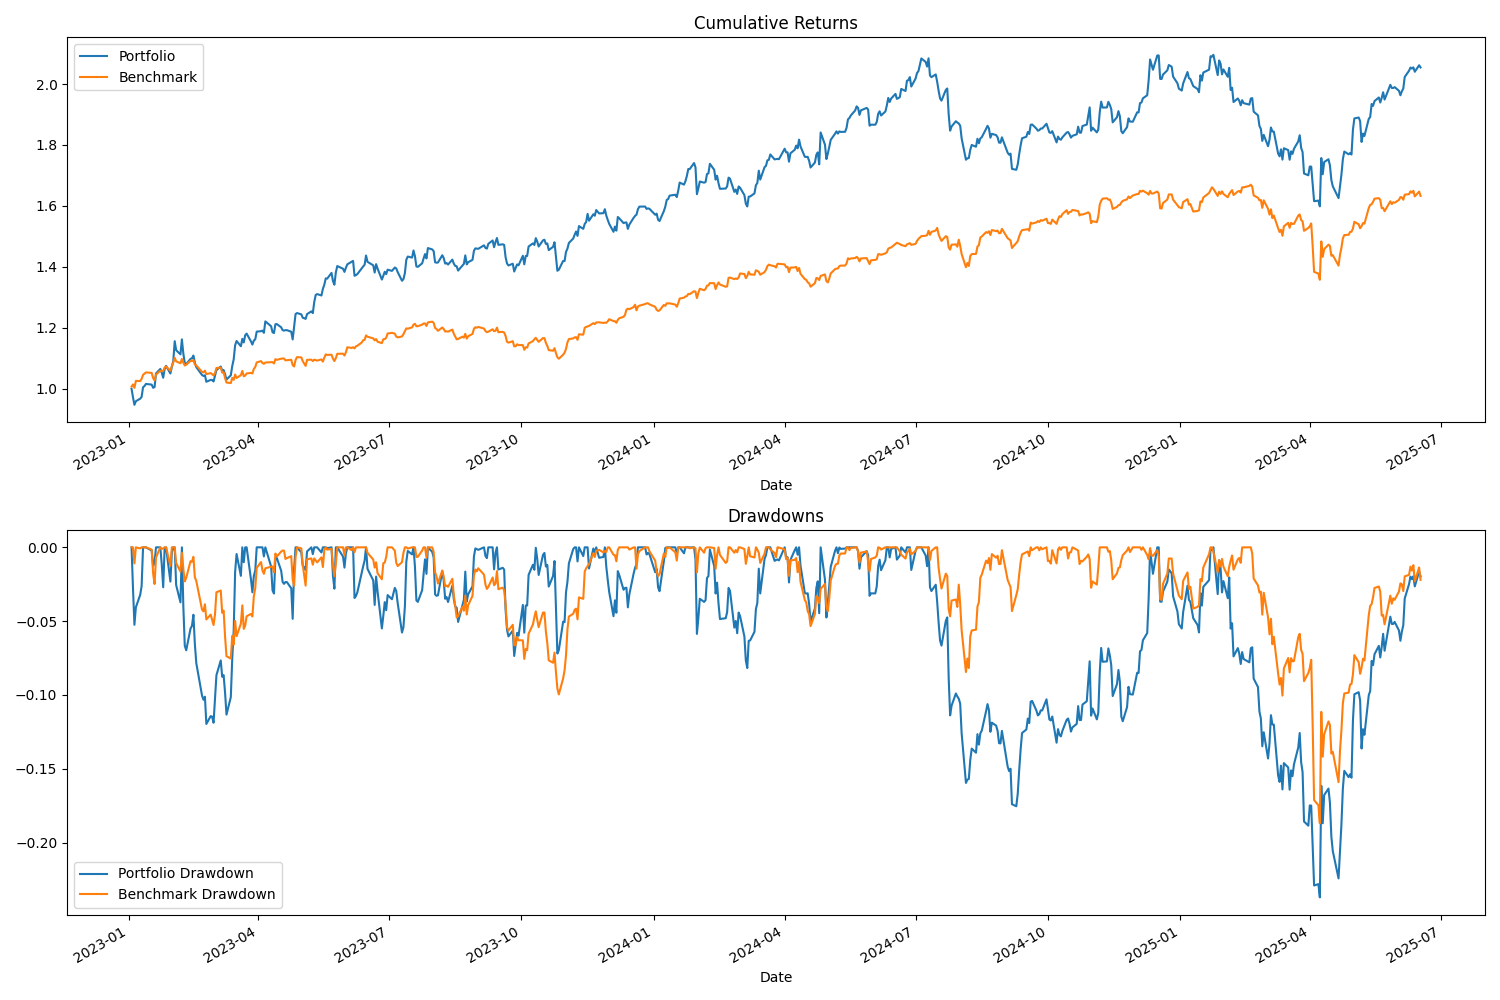
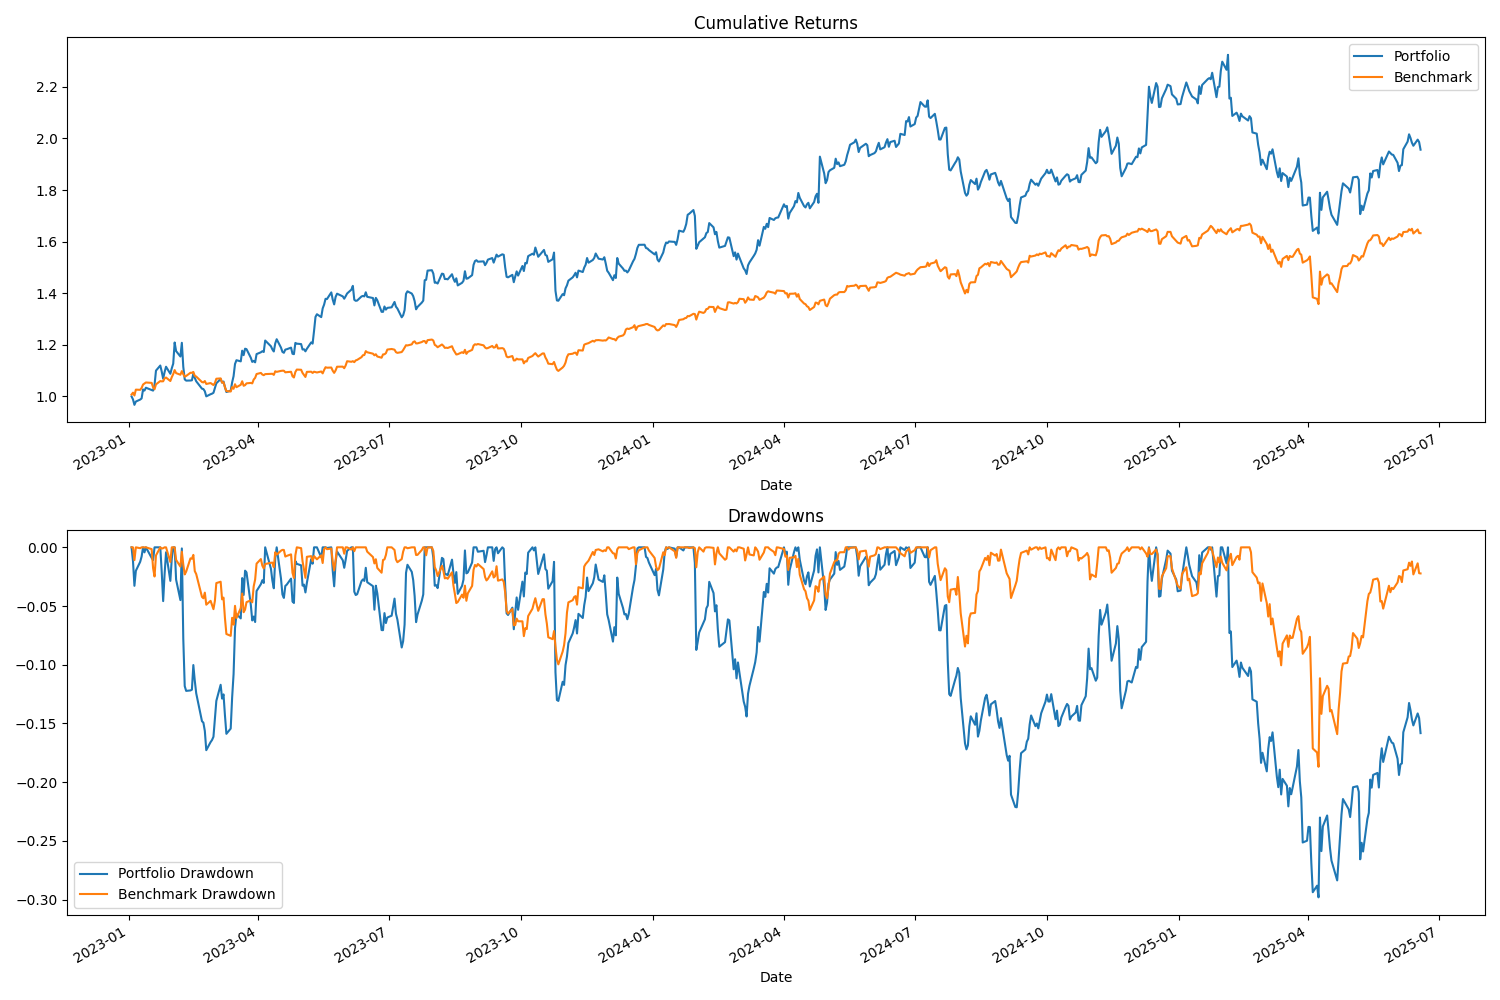
Working changes - Dinesh

diff --git a/src/main.py b/src/main.py
@@ -27,6 +27,11 @@ from src.utils.ollama import ensure_ollama_and_model
 from src.utils.progress import progress
 from src.utils.visualize import save_graph_as_png
 
+## Net New
+from src.agents.factor_exposure_agent import factor_exposure_agent
+from src.utils.display import render_factor_exposure_table
+## Net New
+
 # Load environment variables from .env file
 load_dotenv(override=True)
 
@@ -110,7 +115,7 @@ def start(state: AgentState):
     return state
 
 
-def create_workflow(selected_analysts=None):
+def create_workflow_orig(selected_analysts=None):
     """Create the workflow with selected analysts."""
     workflow = StateGraph(AgentState)
     workflow.add_node("start_node", start)
@@ -144,9 +149,64 @@ def create_workflow(selected_analysts=None):
     workflow.add_edge("risk_management_agent", "portfolio_manager")
     workflow.add_edge("portfolio_manager", "backtester_agent")
     workflow.add_edge("backtester_agent", END)
+    # workflow.add_edge()
 
     workflow.set_entry_point("start_node")
     return workflow
+
+###### New Workflow Function - Start ##############
+
+def create_workflow(selected_analysts=None):
+    """Create the workflow with selected analysts."""
+    workflow = StateGraph(AgentState)
+    workflow.add_node("start_node", start)
+
+    # Add news agent
+    workflow.add_node("news_agent", news_agent)
+    workflow.add_edge("start_node", "news_agent")
+
+    # Get analyst nodes from the configuration
+    analyst_nodes = get_analyst_nodes()
+
+    # Default to all analysts if none selected
+    if selected_analysts is None:
+        selected_analysts = list(analyst_nodes.keys())
+    # Add selected analyst nodes
+    for analyst_key in selected_analysts:
+        node_name, node_func = analyst_nodes[analyst_key]
+        workflow.add_node(node_name, node_func)
+        workflow.add_edge("news_agent", node_name)
+
+    # Add factor exposure agent
+    workflow.add_node("factor_exposure_agent", factor_exposure_agent)
+
+    # Connect all selected analysts to Factor Exposure Agent
+    for analyst_key in selected_analysts:
+        node_name = analyst_nodes[analyst_key][0]
+        workflow.add_edge(node_name, "factor_exposure_agent")
+
+    # Connect Factor Exposure Agent to Risk Management
+    workflow.add_edge("factor_exposure_agent", "risk_management_agent")
+
+    # Always add risk and portfolio management
+    workflow.add_node("risk_management_agent", risk_management_agent)
+    workflow.add_node("portfolio_manager", portfolio_management_agent)
+    workflow.add_node("backtester_agent", backtester_agent)
+
+    # Connect selected analysts to risk management
+    for analyst_key in selected_analysts:
+        node_name = analyst_nodes[analyst_key][0]
+        workflow.add_edge(node_name, "risk_management_agent")
+
+    workflow.add_edge("risk_management_agent", "portfolio_manager")
+    workflow.add_edge("portfolio_manager", "backtester_agent")
+    workflow.add_edge("backtester_agent", END)
+
+    workflow.set_entry_point("start_node")
+    return workflow
+
+
+###### New Workflow Function - End ##############
 
 
 if __name__ == "__main__":
@@ -330,3 +390,10 @@ if __name__ == "__main__":
     print(f"\n\n{Fore.YELLOW}Final Portfolio ratio: {final_state["data"].get("final_position")}{Style.RESET_ALL}")
     print(f"\n\n{Fore.YELLOW}Total portfolio amount: {final_state["data"].get("total_portfolio_amount")}{Style.RESET_ALL}")
     display_backtest_summary_table(result["backtest_results"], final_state["data"].get("backtest_summary"))
+    
+    ## Net New
+    factor_scores = final_state["data"].get("factor_exposure")
+    if factor_scores:
+        print("\n\nFACTOR EXPOSURE SUMMARY:")
+        print(render_factor_exposure_table(factor_scores))
+    ## Net New

diff --git a/src/agents/risk_complaince_updated.py b/src/agents/risk_complaince_updated.py
@@ -1,0 +1,81 @@
+import pandas as pd
+import matplotlib.pyplot as plt
+import openai
+import matplotlib
+matplotlib.use('Agg') 
+
+class RiskComplianceAgent:
+    def __init__(self, volume_threshold=2.5, price_jump_threshold=0.05,
+                 leverage_limit=2.0, stop_loss_threshold=0.10, drawdown_limit=0.20,
+                 openai_api_key=None):
+        self.volume_threshold = volume_threshold
+        self.price_jump_threshold = price_jump_threshold
+        self.leverage_limit = leverage_limit
+        self.stop_loss_threshold = stop_loss_threshold
+        self.drawdown_limit = drawdown_limit
+        self.openai_api_key = openai_api_key
+        if openai_api_key:
+            openai.api_key = openai_api_key
+
+    def analyze(self, df):
+        alerts = []
+
+        df["PriceChange"] = df["Price"].pct_change()
+        df["VolumeZScore"] = (df["Volume"] - df["Volume"].rolling(20).mean()) / df["Volume"].rolling(20).std()
+        df["PeakValue"] = df["PortfolioValue"].cummax()
+        df["Drawdown"] = (df["PortfolioValue"] - df["PeakValue"]) / df["PeakValue"]
+
+        for i in range(1, len(df)):
+            date = df.index[i]
+            row = df.iloc[i]
+
+            if abs(row["PriceChange"]) > self.price_jump_threshold and abs(row["VolumeZScore"]) > self.volume_threshold:
+                alerts.append((date, "Insider Trading Pattern Detected"))
+
+            if row["LeverageRatio"] > self.leverage_limit:
+                alerts.append((date, "Excessive Leverage Detected"))
+
+            if row["PortfolioValue"] < row["PeakValue"] * (1 - self.stop_loss_threshold):
+                alerts.append((date, "Stop-Loss Triggered"))
+
+            if row["Drawdown"] < -self.drawdown_limit:
+                alerts.append((date, "Drawdown Limit Breached"))
+
+        return pd.DataFrame(alerts, columns=["Date", "Alert"]).set_index("Date")
+
+    def explain_alerts(self, alerts_df):
+        if not self.openai_api_key:
+            raise ValueError("OpenAI API key not provided.")
+
+        explanations = []
+        for date, row in alerts_df.iterrows():
+            alert_type = row["Alert"]
+            prompt = f"""
+            You are a financial compliance assistant. Explain the following alert in simple terms:
+            Alert Type: {alert_type}
+            Context: This alert was triggered during portfolio monitoring.
+            """
+            try:
+                response = openai.ChatCompletion.create(
+                    model="gpt-4o",
+                    messages=[{"role": "user", "content": prompt}]
+                )
+                explanation = response['choices'][0]['message']['content']
+            except Exception as e:
+                explanation = f"Error generating explanation: {e}"
+
+            explanations.append((date, alert_type, explanation))
+
+        return pd.DataFrame(explanations, columns=["Date", "Alert", "Explanation"]).set_index("Date")
+
+    def plot_alerts(self, df, alerts_df):
+        plt.figure(figsize=(12, 6))
+        plt.plot(df["PortfolioValue"], label="Portfolio Value", color="blue")
+        for alert_date in alerts_df.index:
+            plt.axvline(x=alert_date, color="red", linestyle="--", alpha=0.3)
+        plt.title("Portfolio Value with Risk & Compliance Alerts")
+        plt.xlabel("Date")
+        plt.ylabel("Value")
+        plt.legend()
+        plt.tight_layout()
+        plt.show()

diff --git a/src/agents/risk_compliance.py b/src/agents/risk_compliance.py
@@ -1,0 +1,51 @@
+import pandas as pd
+import matplotlib.pyplot as plt
+import matplotlib
+matplotlib.use('Agg') 
+
+class RiskComplianceAgent:
+    def __init__(self, volume_threshold=2.5, price_jump_threshold=0.05,
+                 leverage_limit=2.0, stop_loss_threshold=0.10, drawdown_limit=0.20):
+        self.volume_threshold = volume_threshold
+        self.price_jump_threshold = price_jump_threshold
+        self.leverage_limit = leverage_limit
+        self.stop_loss_threshold = stop_loss_threshold
+        self.drawdown_limit = drawdown_limit
+
+    def analyze(self, df):
+        alerts = []
+
+        df["PriceChange"] = df["Price"].pct_change()
+        df["VolumeZScore"] = (df["Volume"] - df["Volume"].rolling(20).mean()) / df["Volume"].rolling(20).std()
+        df["PeakValue"] = df["PortfolioValue"].cummax()
+        df["Drawdown"] = (df["PortfolioValue"] - df["PeakValue"]) / df["PeakValue"]
+
+        for i in range(1, len(df)):
+            date = df.index[i]
+            row = df.iloc[i]
+
+            if abs(row["PriceChange"]) > self.price_jump_threshold and abs(row["VolumeZScore"]) > self.volume_threshold:
+                alerts.append((date, "Insider Trading Pattern Detected"))
+
+            if row["LeverageRatio"] > self.leverage_limit:
+                alerts.append((date, "Excessive Leverage Detected"))
+
+            if row["PortfolioValue"] < row["PeakValue"] * (1 - self.stop_loss_threshold):
+                alerts.append((date, "Stop-Loss Triggered"))
+
+            if row["Drawdown"] < -self.drawdown_limit:
+                alerts.append((date, "Drawdown Limit Breached"))
+
+        return pd.DataFrame(alerts, columns=["Date", "Alert"]).set_index("Date")
+
+    def plot_alerts(self, df, alerts_df):
+        plt.figure(figsize=(12, 6))
+        plt.plot(df["PortfolioValue"], label="Portfolio Value")
+        for alert_date in alerts_df.index:
+            plt.axvline(x=alert_date, color="red", linestyle="--", alpha=0.3)
+        plt.title("Portfolio Value with Risk & Compliance Alerts")
+        plt.xlabel("Date")
+        plt.ylabel("Value")
+        plt.legend()
+        plt.tight_layout()
+        plt.show()

diff --git a/src/agents/factor_exposure_agent.py b/src/agents/factor_exposure_agent.py
@@ -1,0 +1,45 @@
+import yfinance as yf
+from langchain_core.messages import HumanMessage
+from src.graph.state import AgentState, show_agent_reasoning
+
+def factor_exposure_agent(state: AgentState) -> AgentState:
+    """Analyzes factor exposures for each ticker based on financial metrics."""
+    factor_scores = {}
+    tickers = state["data"]["tickers"]
+
+    for ticker in tickers:
+        try:
+            stock = yf.Ticker(ticker)
+            info = stock.info
+
+            scores = {
+                "value": round(1 / info.get("trailingPE", 20), 3),  # inverse PE
+                "growth": round(info.get("earningsGrowth", 0), 3),
+                "momentum": round(info.get("52WeekChange", 0), 3),
+                "volatility": round(info.get("beta", 1), 3),
+                "quality": round(info.get("returnOnEquity", 0), 3),
+                "size": round(info.get("marketCap", 0) / 1e12, 3)  # normalize to trillions
+            }
+
+            factor_scores[ticker] = scores
+
+        except Exception as e:
+            factor_scores[ticker] = {"error": str(e)}
+
+    # Store in state
+    state["data"]["factor_exposure"] = factor_scores
+
+    # Optional: show reasoning
+    if state["metadata"]["show_reasoning"]:
+        show_agent_reasoning(factor_scores, "Factor Exposure Agent")
+
+    # Add message
+    message = HumanMessage(
+        content=f"Factor exposure analysis complete: {factor_scores}",
+        name="factor_exposure_agent"
+    )
+
+    return {
+        "messages": state["messages"] + [message],
+        "data": state["data"]
+    }

diff --git a/src/utils/display.py b/src/utils/display.py
@@ -6,7 +6,36 @@ from tabulate import tabulate
 
 from .analysts import ANALYST_ORDER
 
+## Net New
 
+def render_factor_exposure_table(factor_exposure: dict) -> str:
+    """
+    Renders a formatted table of factor exposure scores for each ticker.
+
+    Parameters:
+    - factor_exposure (dict): Dictionary with tickers as keys and factor score dicts as values.
+
+    Returns:
+    - str: Formatted table string.
+    """
+    headers = ["Ticker", "Value", "Growth", "Momentum", "Volatility", "Quality", "Size"]
+    table_data = []
+
+    for ticker, scores in factor_exposure.items():
+        row = [
+            ticker,
+            scores.get("value", "N/A"),
+            scores.get("growth", "N/A"),
+            scores.get("momentum", "N/A"),
+            scores.get("volatility", "N/A"),
+            scores.get("quality", "N/A"),
+            scores.get("size", "N/A")
+        ]
+        table_data.append(row)
+
+    return tabulate(table_data, headers=headers, tablefmt="grid")
+
+## Net New - End
 def sort_agent_signals(signals):
     """Sort agent signals in a consistent order."""
     # Create order mapping from ANALYST_ORDER

diff --git a/src/agents/news_agent.py b/src/agents/news_agent.py
@@ -15,7 +15,8 @@ from src.graph.state import AgentState
 from src.tools.api import get_company_news, get_insider_trades
 from src.utils.llm import call_llm
 from src.utils.progress import progress
-
+import matplotlib
+matplotlib.use('Agg') 
 
 class NewsAnalysisResult(BaseModel):
     """Results from news analysis."""

diff --git a/src/agents/backtester.py b/src/agents/backtester.py
@@ -13,7 +13,8 @@ from pydantic import BaseModel
 from src.graph.state import AgentState
 from src.utils.llm import call_llm
 from src.utils.progress import progress
-
+import matplotlib
+matplotlib.use('Agg')
 
 class BackTestSummary(BaseModel):
     summary: str = "Summary of the backtest results"

diff --git a/src/backtester.py b/src/backtester.py
@@ -23,6 +23,8 @@ from src.tools.api import (
 from src.utils.display import print_backtest_results, format_backtest_row
 from typing_extensions import Callable
 from src.utils.ollama import ensure_ollama_and_model
+import matplotlib
+matplotlib.use('Agg') 
 
 init(autoreset=True)
 
